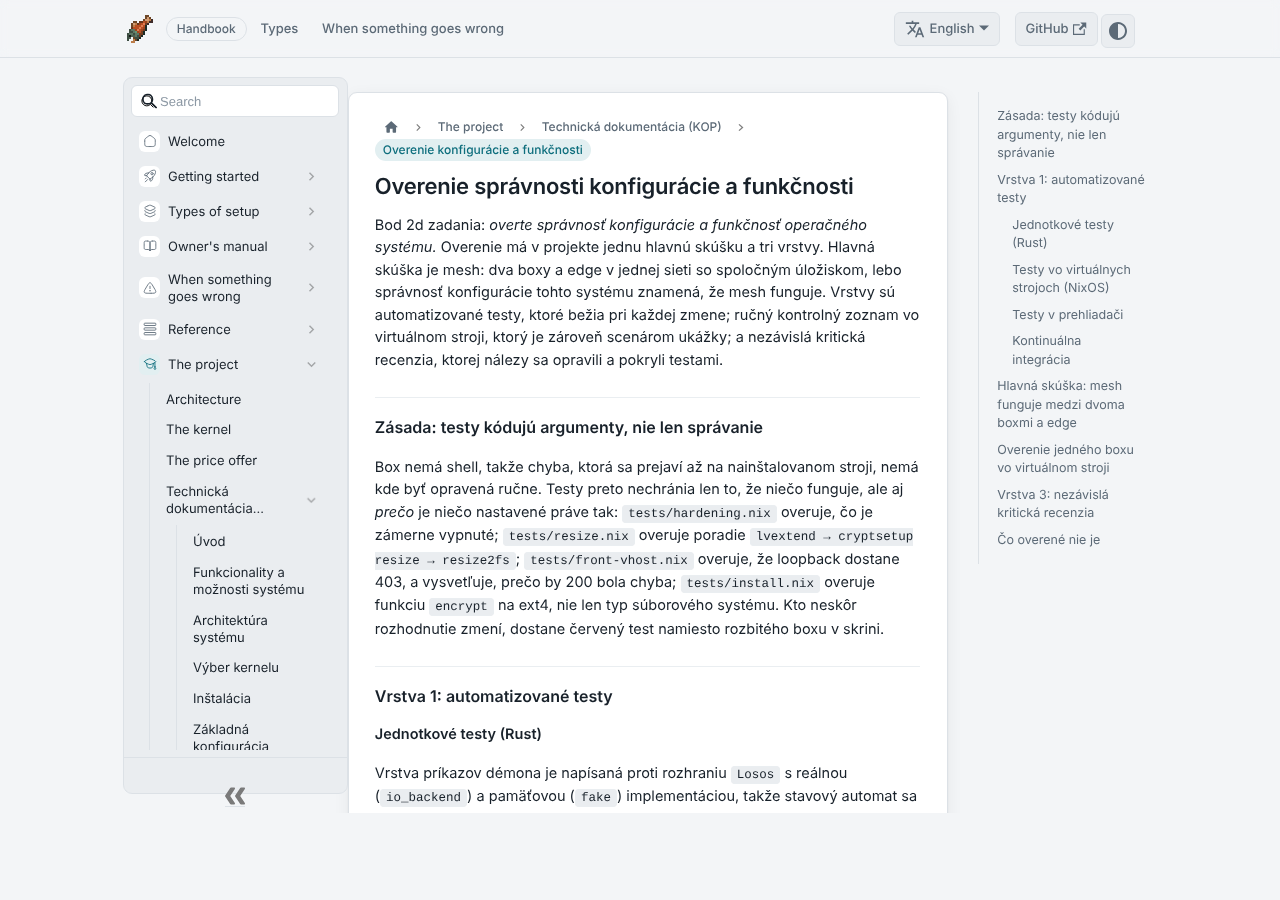
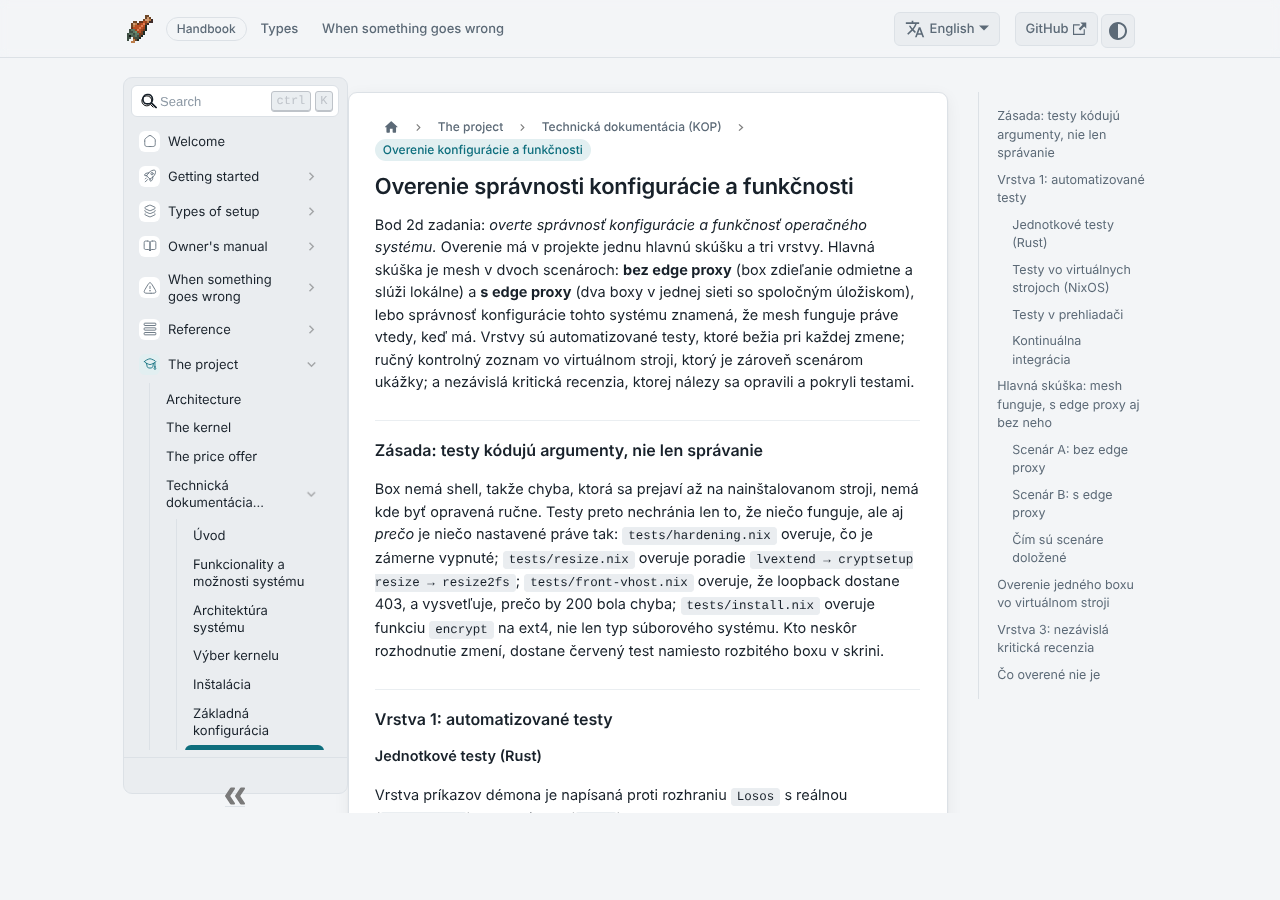
kop: verification as two mesh scenarios, and the price offer's result
Matus clarified requirement 2d: correct configuration means the mesh
works, both with and without the edge proxy. Chapter 7's headline check
is now two scenarios on the same pair of boxes, A without an edge (the
box finds none, refuses to share, keeps serving locally, survives a
reboot in that state) and B with one (discovery, join, pooled storage
visible on both, edge outage and return, compute window, unofficial
edge), each with its expected outcome and a note on what edge-lan.nix
and the recorded walkthrough cover. Chapter 6 states the enable-only
gate the scenarios test.

Chapter 8 gets the result of the price offer finished in the project
(two configurations, one-off and yearly totals, assumptions), still
pointing at the separate document and spreadsheet for the itemised
prices and sources.

Claude-Session: https://claude.ai/code/session_014sAYwA5x43jL4rbpcWb656

diff --git a/handbook/docs/project/kop/overenie.md b/handbook/docs/project/kop/overenie.md
@@ -6,9 +6,11 @@ sidebar_position: 7
 # Overenie správnosti konfigurácie a funkčnosti
 
 Bod 2d zadania: *overte správnosť konfigurácie a funkčnosť operačného
-systému.* Overenie má v projekte jednu hlavnú skúšku a tri vrstvy. Hlavná skúška je
-mesh: dva boxy a edge v jednej sieti so spoločným úložiskom, lebo správnosť
-konfigurácie tohto systému znamená, že mesh funguje. Vrstvy sú
+systému.* Overenie má v projekte jednu hlavnú skúšku a tri vrstvy. Hlavná
+skúška je mesh v dvoch scenároch: **bez edge proxy** (box zdieľanie odmietne
+a slúži lokálne) a **s edge proxy** (dva boxy v jednej sieti so spoločným
+úložiskom), lebo správnosť konfigurácie tohto systému znamená, že mesh
+funguje práve vtedy, keď má. Vrstvy sú
 automatizované testy, ktoré bežia pri každej zmene; ručný kontrolný zoznam
 vo virtuálnom stroji, ktorý je zároveň scenárom ukážky; a nezávislá kritická
 recenzia, ktorej nálezy sa opravili a pokryli testami.
@@ -91,50 +93,76 @@ inštalačného ISO a jeho boot** pod OVMF aj SeaBIOS (`tests/iso-boot.py`
 Príručka má vlastný workflow (typová kontrola, kontrola odkazov a tokenov,
 zostavenie, nasadenie na GitHub Pages, zostavenie tohto PDF).
 
-## Hlavná skúška: mesh funguje medzi dvoma boxmi a edge
+## Hlavná skúška: mesh funguje, s edge proxy aj bez neho
 
 Správnosť konfigurácie tohto systému sa nedá overiť na jednom stroji, lebo
 jeho zmysel je v sieti: box musí nájsť edge, pripojiť sa k meshu a zdieľané
-úložisko musí byť vidieť z oboch strán. Hlavné overenie je preto zostava
-**dvoch boxov a jedného edge v jednej sieti**, bez internetu, s úložiskom
-spojeným do poolu a viditeľným na oboch boxoch. Má dve podoby:
+úložisko musí byť vidieť z oboch strán. Rovnako dôležité je však to, čo box
+urobí, keď edge v sieti **nie je**: musí to zistiť sám, zdieľanie odmietnuť
+a ďalej slúžiť svojmu majiteľovi lokálne. Hlavné overenie sú preto **dva
+scenáre na jednej sieti bez internetu**, každý s očakávaným výsledkom, ktoré
+sa predvedú za sebou na tej istej zostave dvoch boxov.
+
+### Scenár A: bez edge proxy
+
+Zostava: dva boxy v jednej sieti, žiadny edge (alebo edge vypnutý).
+
+| #  | Krok                                                   | Očakávaný výsledok                                                                                     |
+| -- | ------------------------------------------------------ | ------------------------------------------------------------------------------------------------------ |
+| A1 | spustiť oba boxy a prejsť sprievodcom                  | Nextcloud a adminské rozhranie fungujú na každom boxe samostatne; panel Mesh hlási *Edge proxy: none*  |
+| A2 | pokúsiť sa zapnúť *Join the mesh* alebo zdieľanie disku | prepínače sú sivé s dôvodom; priame volanie API odpovie 409 s vetou, že edge nebol nájdený             |
+| A3 | nechať boxy bežať a sledovať panel Mesh                 | box skenuje sieť ďalej (mDNS `_losos-edge._tcp` a nastavená adresa), stav sa nemení, nič sa nepokazí   |
+| A4 | reštartovať box                                         | po štarte je stav rovnaký: lokálne služby bežia, mesh je vypnutý, nič sa nepokúša pripojiť naslepo    |
+
+Výsledok scenára A: box bez edge je plnohodnotné lokálne úložisko a **nikdy
+nezačne zdieľať disk do siete, v ktorej nie je dôveryhodný edge**. Toto je
+brána *enable-only* z kapitoly 6: zdieľanie sa dá zapnúť len s edge
+v dosahu.
+
+### Scenár B: s edge proxy
+
+Zostava: tie isté dva boxy plus jeden edge v tej istej sieti.
+
+| #  | Krok                                                         | Očakávaný výsledok                                                                                   |
+| -- | ------------------------------------------------------------ | ---------------------------------------------------------------------------------------------------- |
+| B1 | spustiť edge (alebo ho zapnúť k zostave zo scenára A)        | do minúty oba boxy ukážu na paneli Mesh *Edge proxy found* so zdrojom *On this network*             |
+| B2 | na oboch boxoch zapnúť *Join the mesh*                       | prestavba prejde; `kubectl get nodes` na edge ukáže oba uzly v stave Ready                            |
+| B3 | na oboch boxoch zapnúť zdieľanie disku                       | Longhorn na edge ukáže dva uzly s pridelenou kapacitou; adresár `/home/shared` je odomknutý (fscrypt) |
+| B4 | vytvoriť zväzok v poole a zapísať doň dáta                   | zväzok má repliky na oboch boxoch; dáta sú čitateľné po odpojení jedného boxu                         |
+| B5 | vypnúť edge                                                   | do minúty oba boxy hlásia *Edge proxy: none*; zapnutie zdieľania odpovie 409; vlastné aplikácie boxov bežia ďalej (návrat do scenára A) |
+| B6 | zapnúť edge späť                                              | brána sa otvorí bez zásahu; uzly sa vrátia do Ready bez opätovného pridania (`/etc/rancher` prežil)   |
+| B7 | nastaviť okno 23:00 až 07:00 a pozrieť uzol na edge mimo okna | uzol má taint NoSchedule; v okne a pri nečinnosti taint zmizne                                        |
+| B8 | pripojiť neoficiálny edge (bez podpisu koreňovým kľúčom)      | zdieľanie je dovolené, trh hlási *noOfficialEdge* a objednávka odpovie 409                            |
+
+Výsledok scenára B: **úložisko dvoch boxov je spojené do jedného poolu
+a vidieť ho z oboch strán**, členstvo prežije výpadok edge aj reštart, a
+obchodovanie sa povolí len oficiálnemu edge.
+
+### Čím sú scenáre doložené
 
 - **Automatizovaný test `tests/edge-lan.nix`** (pripravovaný v PR #75):
   dva virtuálne stroje na jednej sieti, `edge` s modulom edge a ohlasovaním
   služby `_losos-edge._tcp` cez mDNS, `box` s riadiacou rovinou zariadenia.
-  Test tvrdí, čo sľubuje `backend/src/edge.rs`: ohlásenie edge je na drôte
-  a box ho rozlíši; `GET /api/edge` hlási edge ako dosiahnuteľný zo siete
-  s ohlásenou adresou; s edge v dosahu je prepnutie do režimu mesh prijaté;
-  keď edge zmizne, box to do dvoch skenov zbadá a zapnutie zdieľania
-  odmietne s vlastnou vetou; po návrate edge sa brána znovu otvorí.
-  Druhý, nepodpísaný edge v tom istom teste overuje, že obchodovanie sa
-  povolí len oficiálnemu edge.
+  Test prejde oba scenáre v jednom behu: box bez edge zdieľanie odmietne
+  (A2); s edge v dosahu je prepnutie do režimu mesh prijaté (B1, B2); keď
+  edge zmizne, box to do dvoch skenov zbadá a zapnutie zdieľania odmietne
+  s vlastnou vetou (B5); po návrate edge sa brána znovu otvorí (B6). Druhý,
+  nepodpísaný edge v tom istom teste overuje, že obchodovanie sa povolí len
+  oficiálnemu edge (B8).
 - **Ukážka `demo/edge-lan/run.sh`** (ten istý PR): skript postaví edge VM
   ako smerovač virtuálnej siete (VDE prepínač, 10.77.0.1/24, DHCP, NAT),
-  nainštaluje box z inštalačného ISO, zaberie ho, a prevedie scenár cez
-  API: box edge nájde sám, panel Mesh to ukáže a dovolí zdieľať úložisko;
-  edge sa vypne, box to do minúty zbadá a zdieľanie odmietne; edge sa
-  vráti a brána sa otvorí. Nahrávka ukážky je súčasťou materiálov
-  k obhajobe. Skript je zároveň základom reprodukovateľného firemného
-  nasadenia (edge a boxy v jednej sieti), takže overenie konfigurácie a
-  návod pre operátora sú jeden a ten istý postup.
+  nainštaluje box z inštalačného ISO, zaberie ho, a prevedie oba scenáre
+  cez API: box bez edge zdieľanie odmietne; edge sa zapne, box ho nájde
+  sám, panel Mesh to ukáže a dovolí zdieľať úložisko; edge sa vypne, box to
+  do minúty zbadá a zdieľanie odmietne; edge sa vráti a brána sa otvorí.
+  Nahrávka oboch vetiev je súčasťou materiálov k obhajobe. Skript je
+  zároveň základom reprodukovateľného firemného nasadenia (edge a boxy
+  v jednej sieti), takže overenie konfigurácie a návod pre operátora sú
+  jeden a ten istý postup.
 
-Kontrolný zoznam mesh skúšky s očakávaným výsledkom:
-
-| #  | Krok                                                        | Očakávaný výsledok                                                                              |
-| -- | ----------------------------------------------------------- | ----------------------------------------------------------------------------------------------- |
-| M1 | spustiť edge a dva boxy v jednej sieti bez internetu        | oba boxy ukážu na paneli Mesh *Edge proxy found* so zdrojom *On this network*                  |
-| M2 | na oboch boxoch zapnúť *Join the mesh*                       | prestavba prejde; `kubectl get nodes` na edge ukáže oba uzly v stave Ready                       |
-| M3 | na oboch boxoch zapnúť zdieľanie disku                       | Longhorn na edge ukáže dva uzly s pridelenou kapacitou; adresár `/home/shared` je odomknutý (fscrypt) |
-| M4 | vytvoriť zväzok v poole a zapísať doň dáta                   | zväzok má repliky na oboch boxoch; dáta sú čitateľné po odpojení jedného boxu                     |
-| M5 | vypnúť edge                                                   | do minúty oba boxy hlásia *Edge proxy: none*; zapnutie zdieľania odpovie 409 s vlastnou vetou; vlastné aplikácie boxov bežia ďalej |
-| M6 | zapnúť edge späť                                              | brána sa otvorí bez zásahu; uzly sa vrátia do Ready bez opätovného pridania (`/etc/rancher` prežil) |
-| M7 | nastaviť okno 23:00 až 07:00 a pozrieť uzol na edge mimo okna | uzol má taint NoSchedule; v okne a pri nečinnosti taint zmizne                                   |
-| M8 | pripojiť neoficiálny edge (bez podpisu koreňovým kľúčom)      | zdieľanie je dovolené, trh hlási *noOfficialEdge* a objednávka odpovie 409                        |
-
-Body M1, M2, M5, M6 a M8 pokrýva test `edge-lan.nix` a ukážka; M3, M4 a M7
-sú overené v `cluster-vm.nix` (koexistencia runtime) a na edge ručne, a sú
-to body, ktoré ukážka na obhajobe predvedie naživo.
+Body A1 až A4, B1, B2, B5, B6 a B8 pokrýva test `edge-lan.nix` a ukážka;
+B3, B4 a B7 sú overené v `cluster-vm.nix` (koexistencia runtime) a na edge
+ručne, a sú to body, ktoré ukážka na obhajobe predvedie naživo.
 
 ## Overenie jedného boxu vo virtuálnom stroji
 
@@ -194,5 +222,5 @@ hodiny); ich funkčnosť sa overuje ručne vo VM ukážke a Apache podu
 samostatným testom. Mesh s Longhornom a taintom beží v `cluster-vm.nix`
 len po koexistenciu runtime; objavenie edge a brána zdieľania majú test
 `edge-lan.nix` (PR #75), replikácia a taint sa overujú na edge ručne podľa
-zoznamu M3, M4 a M7. Trh je overený proti náhradám
+zoznamu B3, B4 a B7. Trh je overený proti náhradám
 Stripe a apiservera.

diff --git a/handbook/docs/project/kop/cenova-ponuka.md b/handbook/docs/project/kop/cenova-ponuka.md
@@ -8,11 +8,11 @@ sidebar_position: 8
 Bod 3 zadania: *spracujte cenovú ponuku hardvérového a softvérového
 vybavenia potrebného na realizáciu projektu.* Táto kapitola hovorí, z čoho
 sa ponuka skladá a prečo; konkrétne položky s cenami a zdrojmi sú
-v samostatnom dokumente **Cenová ponuka** a tabuľke *cenova-ponuka.xlsx*,
-ktoré sú súčasťou materiálov k obhajobe (autor sa rozhodol udržiavať ich
-mimo repozitára kódu, lebo ceny sa menia a repozitár nesie len kód,
-Markdown a obrázky). Pri odovzdaní sa dokument s cenami prikladá za touto
-kapitolou.
+v samostatnom dokumente **Cenová ponuka LosOS** a tabuľke
+*cenova-ponuka.xlsx*, ktoré sú súčasťou materiálov k obhajobe (autor sa
+rozhodol udržiavať ich mimo repozitára kódu, lebo ceny sa menia a repozitár
+nesie len kód, Markdown a obrázky). Pri odovzdaní sa dokument s cenami
+prikladá za touto kapitolou; jeho výsledok je zhrnutý na konci kapitoly.
 
 ## Z čoho sa realizácia skladá
 
@@ -91,3 +91,23 @@ ponuka s tým počíta minimom objednávky).
   stroji s dostatkom pamäte a disku; drahší box neprinesie nič, čo by
   softvér využil.
 - **Zálohovanie.** Box je jedna kópia; druhú si drží majiteľ, kde chce.
+
+## Výsledok ponuky
+
+Dokument s cenami (stav k 7. októbru 2026, slovenské maloobchodné ceny
+s DPH 23 %, zdroj a dátum pri každej položke) počíta dve konfigurácie:
+
+| Konfigurácia                                   | Z čoho sa skladá                                                           | Jednorazovo   | Ročne        |
+| ---------------------------- | ---------------------------------------------------------- | ------------------ | ---------------- |
+| **A: maturitná ukážka**                        | jeden box (Acer Veriton N150), doména (Namecheap, 7,79 € ročne), elektrina | 452,59 €      | 25,31 €      |
+| A + voliteľný edge v cloude                    | k tomu Hetzner CX23 ako edge                                               | 452,59 €      | 113,72 €     |
+| **B: nasadenie vo firme**                      | tri boxy, lokálny x86 edge, prepínač, doména, elektrina                    | 1 795,59 €    | 74,37 €      |
+
+Softvér nestojí nič: každý komponent je slobodný (tabuľka licencií vyššie),
+takže softvérová časť ponuky sú len prevádzkové služby (doména, prípadne
+VPS). Predpoklady: elektrina 0,20 € za kWh, práca autora neocenená (pozri
+predchádzajúcu časť), Raspberry Pi ako edge je uvedené len orientačne a označené *na
+overenie*, lebo flake zatiaľ zostavuje len x86_64. Konfigurácia A je to,
+čo sa predvádza na obhajobe (vo virtuálnom stroji, so schváleným nahradením
+fyzického boxu); konfigurácia B je ponuka, s ktorou chce autor po maturite
+osloviť firmy.

diff --git a/handbook/docs/project/kop/index.md b/handbook/docs/project/kop/index.md
@@ -60,7 +60,7 @@ software, and describes how the project is documented and tested.
 | 2a. Vyberte vhodný kernel                                                            | [4 Výber kernelu](./kernel.md)                                           |
 | 2b. Nainštalujte operačný systém                                                     | [5 Inštalácia](./instalacia.md)                                          |
 | 2c. Vykonajte základnú konfiguráciu                                                  | [6 Základná konfigurácia](./konfiguracia.md)                             |
-| 2d. Overte správnosť konfigurácie a funkčnosť                                        | [7 Overenie](./overenie.md): mesh dvoch boxov a edge, testy, kontrolný zoznam |
+| 2d. Overte správnosť konfigurácie a funkčnosť                                        | [7 Overenie](./overenie.md): mesh dvoch boxov s edge aj bez neho, testy, kontrolné zoznamy |
 | 3. Spracujte cenovú ponuku hardvérového a softvérového vybavenia                      | [8 Cenová ponuka](./cenova-ponuka.md)                                    |
 | 4. Vypracujte technickú dokumentáciu                                                 | tento dokument a [9 Dokumentácia projektu](./dokumentacia.md)            |
 

diff --git a/handbook/docs/project/kop/konfiguracia.md b/handbook/docs/project/kop/konfiguracia.md
@@ -95,6 +95,12 @@ aktualizácií `losos.upgradeFlakeUri`).
 
 ![Panel Mesh: edge nájdený v sieti aj cez internet, prepínače meshu a okno hodín.](./img/mesh-dva-edge.png)
 
+Prepínače meshu a zdieľania disku sú **len na zapnutie s edge v dosahu**
+(*enable-only* brána): kým box edge nenašiel (`GET /api/edge` hlási
+*none*), sú sivé s dôvodom a priame volanie API odpovie 409. Zapnuté
+zdieľanie sa pri strate edge nevypína samo, box ho však znovu ponúkne až
+po jeho návrate. Kapitola 7 to overuje ako scenár A a B.
+
 ## Dve veci, ktoré nie sú súčasťou popisu
 
 **Vzhľad** (pozadie, závoj, ručne písané widgety) drží démon ako dokument
